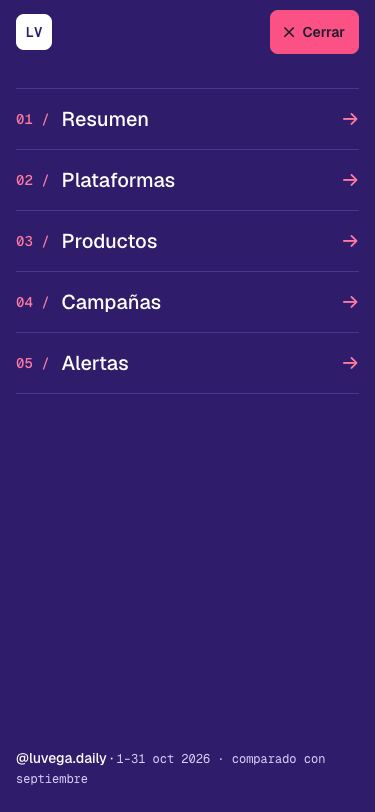
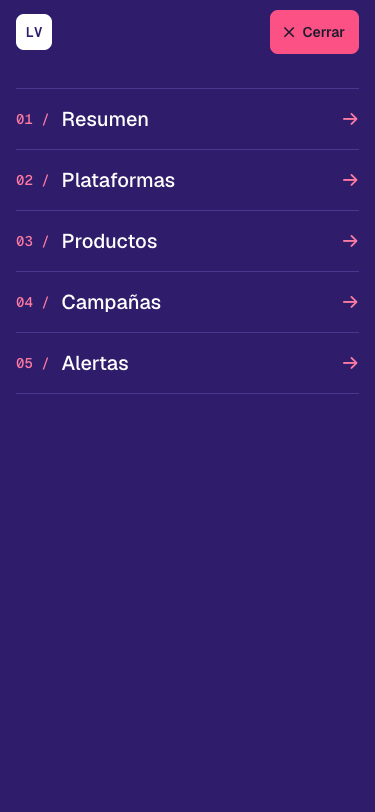
fix: remove footer from mobile menu

diff --git a/index.html b/index.html
@@ -94,9 +94,6 @@
               <li class="border-b border-morado-800"><a class="flex min-h-15 items-center gap-3 text-xl font-medium text-white focus-visible:outline-2 focus-visible:outline-offset-2 focus-visible:outline-white" href="#alertas"><span aria-hidden="true" class="font-mono text-sm text-rosa-300">05 /</span> Alertas <span aria-hidden="true" class="ms-auto text-rosa-300">→</span></a></li>
             </ul>
           </nav>
-          <p class="py-6 text-sm">
-            <span class="font-medium">@luvega.daily</span> · <span class="font-mono text-xs text-lavanda-200">1–31 oct 2026 · comparado con septiembre</span>
-          </p>
         </div>
       </header>
 

diff --git a/DESIGN.md b/DESIGN.md
@@ -47,7 +47,7 @@ por defecto de Tailwind.
 | `linea` | `#E7E3F3` | Bordes de tarjetas, separadores de tablas, rejilla de KPIs |
 | `lavanda-50` | `#F1EDFC` | Pistas de las barras, chips de actividad, tarjetas de producto, fondo de los filtros |
 | `lavanda-100` | `#EDE7FF` | Enlace activo de la sidebar, etiqueta "Superada" |
-| `lavanda-200` | `#D9D0FB` | Texto secundario dentro del menú móvil |
+| `lavanda-200` | `#D9D0FB` | Sin uso desde el 21-11-2026 (era el periodo del pie del menú móvil, que se quitó). Se mantiene en el tema |
 | `lavanda-300` | `#B9A6F7` | Etapa "Clics" del embudo |
 | `lavanda-400` | `#CFC2FB` | Borde de la alerta "Pico" |
 | `lavanda-pico` | `#F4F0FF` | Fondo de la alerta "Pico" |
@@ -183,7 +183,8 @@ Igual que en la web de Iron Wolf (web-artist), adaptado a esta paleta:
     en blanco y `text-xl`. Delante de cada uno, su número ("01 /" … "05 /") en Geist Mono
     `rosa-300`; a la derecha, una flecha → `rosa-300`. Números y flechas son decorativos
     (`aria-hidden="true"`).
-  - Abajo del todo, @luvega.daily en blanco y el periodo en Geist Mono `lavanda-200`.
+  - Sin pie: debajo de los enlaces no hay nada más (Mateo quitó @luvega.daily y el periodo el
+    21-11-2026).
   - Mientras está abierto, la página no hace scroll.
 - **Se cierra** con "Cerrar", que te deja donde estabas, o al pulsar una sección, que lleva a
   ella. En `md` y más el panel no existe a la vista: se ve la sidebar.

diff --git a/.agents/rules/accessibility.md b/.agents/rules/accessibility.md
@@ -17,8 +17,8 @@ combinaciones de texto y fondo que describe `DESIGN.md` §2 y §6. En concreto:
 - **`rosa-500` nunca es color de texto sobre fondo claro** (da 3,16:1). Sobre claro, el rosa de
   texto es `rosa-700` (o `rosa-800` en la etiqueta "Por debajo").
 - Sobre `rosa-500` (píldora "+12 %", botón "Cerrar") el texto es `tinta`, no blanco.
-- Sobre `morado-900` (menú móvil), los números y flechas van en `rosa-300` y el texto
-  secundario en `lavanda-200`.
+- Sobre `morado-900` (menú móvil), los enlaces van en blanco y los números y flechas, en
+  `rosa-300`.
 
 Si necesitas un par nuevo, mide su contraste y pregunta a Mateo antes de usarlo.
 

diff --git a/CONTENT.md b/CONTENT.md
@@ -37,7 +37,8 @@
 - **Botón para cerrar el menú en móvil** (junto al icono ✕, oculto al lector de pantalla):
   - Texto visible: Cerrar
   - Lo que oye el lector de pantalla: "Cerrar menú"
-- **Pie del menú en móvil:** @luvega.daily · 1–31 oct 2026 · comparado con septiembre
+- **Pie del menú en móvil:** ninguno. Mateo lo quitó el 21-11-2026: el menú solo lleva el logo,
+  "Cerrar" y los 5 enlaces.
 - **Enlaces del menú** (en móvil, con su número decorativo "01 /" … "05 /" delante):
   1. Resumen → `#resumen`
   2. Plataformas → `#plataformas`

diff --git a/memory-bank/progress.md b/memory-bank/progress.md
@@ -227,3 +227,7 @@ comisiones era más grande que las otras, que las tablas se cortaban sin barra d
 768, 900, 1023, 1024, 1100, 1279, 1280, 1440 y 1728 px: sin scroll en la página y, desde 1024 px,
 ninguna tabla cortada. Capturas `pagina-*.png` en `design/screenshots/fase-4/`.
 
+**Pie del menú quitado (21-11-2026):** Mateo pidió quitar el pie del menú móvil (@luvega.daily y
+el periodo). Se borró el `<p>` de `index.html` y se actualizaron `CONTENT.md` §1, `DESIGN.md` §2 y
+§7 y A11Y-01. `lavanda-200` queda en el tema, sin uso.
+
